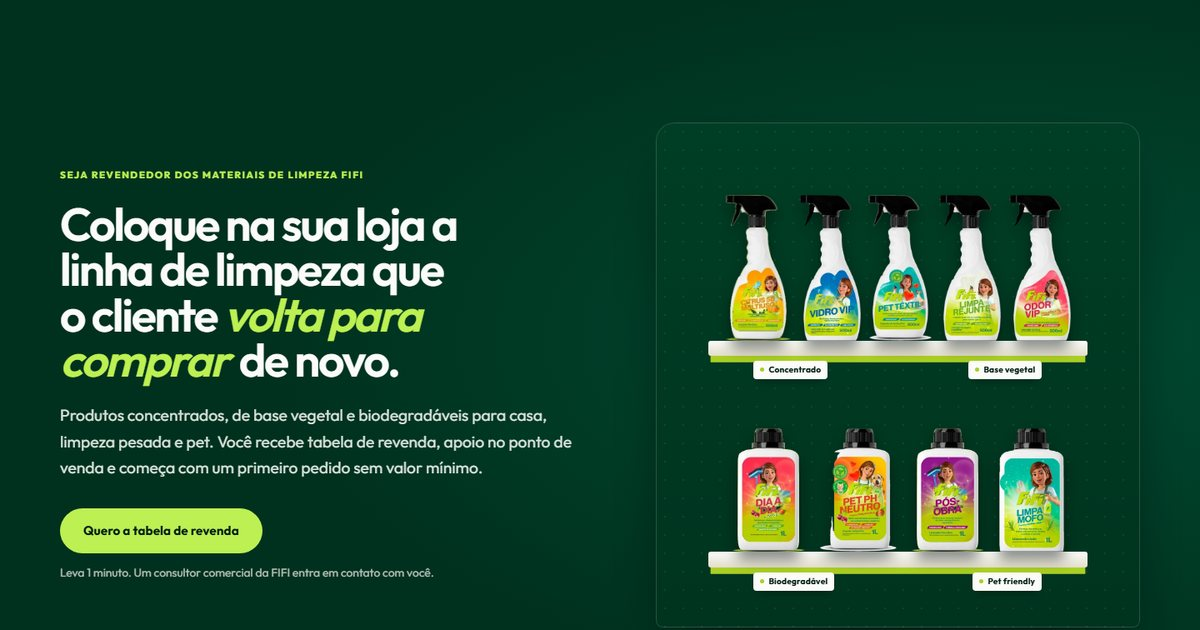
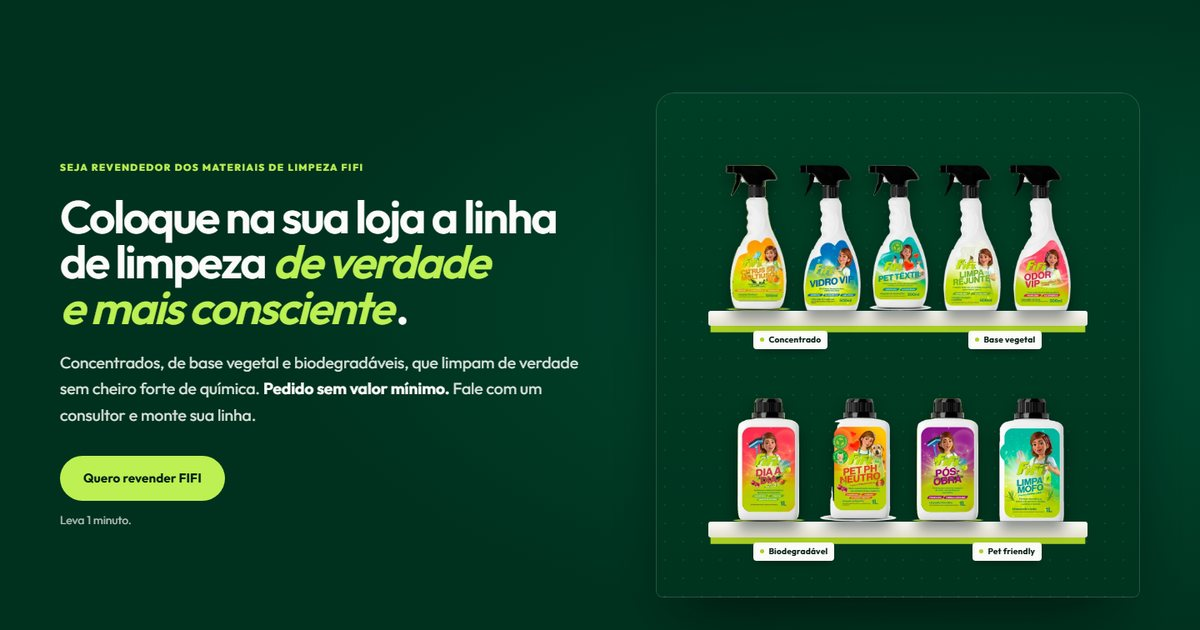
feat(distribuidor): ajustes de copy da Ivonete (cliente) na LP de revenda
Pptx "Ajustes LP FIFI" (24/09/2026):
- hero: "Coloque na sua loja a linha de limpeza de verdade e mais
  consciente", pedido sem valor mínimo, botão "Quero revender FIFI"
- vantagens, "por que a FIFI vende" e rodapé com o texto dela; saem
  margem, tabela progressiva e material de PDV
- "tabela" vira "catálogo e condições" em toda a página; botões
  "Peça o catálogo e as condições" na linha, nas lojas e nos passos
- seção nova "Os selos FIFI" com o conteúdo dos posts dela
- o que ela confirmou deixa de ser pendência; "seguro para casas com
  pets" vira "feito para" (risco regulatório de saneante)
- imagem de compartilhamento com o título novo

diff --git a/distribuidor/index.html b/distribuidor/index.html
@@ -4,7 +4,7 @@
   <meta charset="utf-8">
   <meta name="viewport" content="width=device-width, initial-scale=1">
   <title>Revenda de produtos de limpeza FIFI | Seja revendedor</title>
-  <meta name="description" content="Revenda produtos de limpeza FIFI na sua loja: linha concentrada para casa, limpeza pesada e pet. Peça a tabela de revenda em 1 minuto.">
+  <meta name="description" content="Revenda produtos de limpeza FIFI na sua loja, sem pedido mínimo: linha concentrada para casa, limpeza pesada e pet. Peça o catálogo e as condições.">
   <!-- Em revisão com o cliente: noindex. Na publicação final trocar por "index, follow, max-image-preview:large"
        e tirar /distribuidor do X-Robots-Tag global do vercel.json. -->
   <meta name="robots" content="noindex">
@@ -14,7 +14,7 @@
   <meta property="og:locale" content="pt_BR">
   <meta property="og:site_name" content="FIFI Limpeza">
   <meta property="og:title" content="Seja revendedor FIFI">
-  <meta property="og:description" content="Coloque na sua loja a linha de limpeza que o cliente volta para comprar de novo. Peça a tabela de revenda.">
+  <meta property="og:description" content="Coloque na sua loja a linha de limpeza de verdade e mais consciente. Sem pedido mínimo.">
   <meta property="og:image" content="https://mkt.fifilimpeza.com/distribuidor/img/og-revenda.jpg">
   <meta property="og:image:width" content="1200">
   <meta property="og:image:height" content="630">
@@ -28,7 +28,7 @@
   </script>
   <!-- Liga as animações só se o movimento estiver liberado. Roda antes da pintura: sem piscar. -->
   <script>if(matchMedia("(prefers-reduced-motion: no-preference)").matches&&"IntersectionObserver"in window)document.documentElement.classList.add("js-motion")</script>
-  <link rel="stylesheet" href="styles.css?v=4">
+  <link rel="stylesheet" href="styles.css?v=5">
 </head>
 <body class="revisao">
 <a class="skip-link" href="#conteudo">Pular para o conteúdo</a>
@@ -44,7 +44,7 @@
     <a href="#como-comecar">Como começar</a>
     <a href="#duvidas">Dúvidas</a>
   </nav>
-  <a class="button button-lime button-small" href="#formulario">Quero a tabela</a>
+  <a class="button button-lime button-small" href="#formulario">Quero revender FIFI</a>
 </header>
 
 <main id="conteudo">
@@ -53,15 +53,14 @@
 <section class="hero" id="topo">
   <div class="hero-copy">
     <h1><span class="eyebrow">Seja revendedor dos materiais de limpeza FIFI</span>
-      <span class="h1-main">Coloque na sua loja a linha de limpeza que o cliente <em>volta para comprar</em> de novo.</span></h1>
+      <span class="h1-main">Coloque na sua loja a linha de limpeza <em>de verdade e mais consciente</em>.</span></h1>
     <p class="hero-lead">
-      Produtos concentrados, de base vegetal e biodegradáveis para casa, limpeza pesada e pet.
-      Você recebe tabela de revenda, apoio no ponto de venda e começa com
-      <span class="pend" data-nota="Pedido mínimo do 1º pedido">um primeiro pedido sem valor mínimo</span>.
+      Concentrados, de base vegetal e biodegradáveis, que limpam de verdade sem cheiro forte de química.
+      <strong>Pedido sem valor mínimo.</strong> Fale com um consultor e monte sua linha.
     </p>
     <div class="hero-actions">
-      <a class="button button-lime" href="#formulario">Quero a tabela de revenda</a>
-      <p class="micro">Leva 1 minuto. Um consultor comercial da FIFI entra em contato com você.</p>
+      <a class="button button-lime" href="#formulario">Quero revender FIFI</a>
+      <p class="micro">Leva 1 minuto.</p>
     </div>
   </div>
 
@@ -95,31 +94,31 @@
 <section class="section benefits" id="vantagens">
   <div class="section-head">
     <p class="eyebrow eyebrow-dark">O que você ganha revendendo FIFI</p>
-    <h2>Uma linha que vende bem e deixa margem na sua loja.</h2>
+    <h2>Uma linha que limpa bem e faz o cliente voltar.</h2>
   </div>
   <ol class="benefit-grid">
     <li class="benefit reveal">
       <span class="benefit-num">01</span>
-      <h3><span class="pend" data-nota="Margem sugerida de revenda">Margem que vale o espaço na prateleira</span></h3>
-      <p>Preço de revenda pensado para você ganhar em cada unidade vendida.</p>
+      <h3>Resultado que o cliente percebe</h3>
+      <p>Fórmula concentrada que rende mais por frasco e mantém o poder de limpeza.</p>
     </li>
     <li class="benefit reveal">
       <span class="benefit-num">02</span>
-      <h3><span class="pend" data-nota="Pedido mínimo do 1º pedido">Comece sem arriscar estoque</span></h3>
-      <p>Primeiro pedido sem valor mínimo. Você testa o giro na sua loja antes de aumentar a compra.</p>
+      <h3>Sem pedido mínimo</h3>
+      <p>Você testa o giro antes de aumentar o estoque.</p>
     </li>
     <li class="benefit reveal">
       <span class="benefit-num">03</span>
-      <h3><span class="pend" data-nota="Tabela progressiva por volume existe?">Quanto mais você compra, melhor a condição</span></h3>
-      <p>Tabela progressiva por volume para quem já sabe o que vende.</p>
+      <h3>Uma linha completa</h3>
+      <p>Do dia a dia à limpeza pesada e ao pet, com um só fornecedor.</p>
     </li>
     <li class="benefit reveal">
       <span class="benefit-num">04</span>
-      <h3><span class="pend" data-nota="Display, PDV e treinamento existem hoje?">Apoio para vender no balcão</span></h3>
-      <p>Display, material de PDV e treinamento rápido para sua equipe indicar o produto certo para cada cliente.</p>
+      <h3>Ajuda para vender</h3>
+      <p>Apoio para explicar o produto para seu cliente.</p>
     </li>
   </ol>
-  <a class="text-link text-link-dark" href="#formulario">Ver condições para minha loja <span aria-hidden="true">↓</span></a>
+  <a class="text-link text-link-dark" href="#formulario">Peça as condições para sua loja <span aria-hidden="true">↓</span></a>
 </section>
 
 <!-- S2 · POR QUE A FIFI VENDE -->
@@ -127,23 +126,22 @@
   <div class="why-grid">
     <div>
       <p class="eyebrow eyebrow-dark">Por que a FIFI vende</p>
-      <h2>A FIFI limpa bem, rende mais e é fácil de indicar no balcão.</h2>
+      <h2>Resultado que o cliente vê. Origem vegetal que ele valoriza.</h2>
     </div>
     <div class="why-body">
-      <p class="lead">Seu cliente quer um produto de limpeza que funcione e que caiba no bolso. A fórmula concentrada da FIFI rende mais por frasco, então cada compra dura mais na casa dele. E a linha pode ser usada em casas com crianças e pets, um argumento que o cliente entende na hora.</p>
-      <p>Para você, é um produto com <span class="pend" data-nota="Preço de revenda competitivo para loja pequena">preço de revenda pensado para a sua loja</span> e uma linha completa em um só fornecedor.</p>
+      <p class="lead">Seu cliente quer um produto que funcione, seja seguro para a família e os pets e não agrida o ambiente. A FIFI une performance e ingredientes de origem vegetal.</p>
       <ul class="attr-list">
         <li class="reveal">
           <svg viewBox="0 0 24 24" aria-hidden="true"><path d="M9 3h6M10 3v4.5L6.5 13A6 6 0 0 0 12 21a6 6 0 0 0 5.5-8L14 7.5V3"/><path d="M7.5 14.5h9"/></svg>
-          <div><strong>Concentrado</strong><span>Um frasco rende mais, e o cliente sente a economia no bolso.</span></div>
+          <div><strong>Concentrado</strong><span>Rende mais por frasco, sem abrir mão da limpeza.</span></div>
         </li>
         <li class="reveal">
           <svg viewBox="0 0 24 24" aria-hidden="true"><path d="M5 19c0-8 5-13 14-14-1 9-6 14-14 14Z"/><path d="M5 19l7-7"/></svg>
-          <div><strong><span class="pend" data-nota="Quais produtos da linha são base vegetal">Base vegetal e biodegradável</span></strong><span>O motivo que faz o cliente trocar de marca.</span></div>
+          <div><strong>Base vegetal e biodegradável</strong><span>O motivo que faz o cliente trocar de marca.</span></div>
         </li>
         <li class="reveal">
           <svg viewBox="0 0 24 24" aria-hidden="true"><circle cx="7" cy="9" r="2"/><circle cx="12" cy="6" r="2"/><circle cx="17" cy="9" r="2"/><path d="M12 12c-3 0-5.5 3-5.5 5.2 0 1.7 1.4 2.3 2.8 1.9l2.7-.8 2.7.8c1.4.4 2.8-.2 2.8-1.9C17.5 15 15 12 12 12Z"/></svg>
-          <div><strong>Pet friendly</strong><span>Seguro para casas com pets, o que abre venda em pet shop e agropecuária.</span></div>
+          <div><strong>Pet friendly</strong><span>Feito para casas com pets, o que abre venda em pet shop e agropecuária.</span></div>
         </li>
       </ul>
     </div>
@@ -167,7 +165,7 @@
   <div class="panel" role="tabpanel" id="painel-dia" aria-labelledby="tab-dia">
     <div class="panel-text">
       <h3>Limpeza do dia a dia</h3>
-      <p>Para a casa inteira, do piso ao vidro, com perfume agradável e sem cheiro forte de química.</p>
+      <p>Para a casa inteira, do piso ao vidro, com perfume agradável.</p>
       <p class="chips">Multiuso · Desengordurante · Limpa-vidros · Limpeza de banheiro · Aromatizantes</p>
     </div>
     <ul class="products">
@@ -229,8 +227,44 @@
     </ul>
   </div>
 
-  <a class="button button-outline" href="https://www.fifilimpeza.com" target="_blank" rel="noopener">Ver o catálogo completo</a>
+  <a class="button button-dark" href="#formulario">Peça o catálogo e as condições</a>
 </section>
+
+<!-- SELOS · ajuste da Ivonete (24/09/2026): conteúdo dos posts "Não é só um selo" da FIFI -->
+<section class="section seals" id="selos">
+  <div class="seals-head">
+    <div>
+      <p class="eyebrow eyebrow-dark">Os selos FIFI</p>
+      <h2>Não é só um selo.</h2>
+      <p class="seals-lead">É uma escolha sobre o tipo de produto que o seu cliente coloca dentro de casa.</p>
+    </div>
+    <ul class="seal-badges">
+      <li><img src="img/selo-nanotecnologia.webp" alt="Selo Nanotecnologia, a evolução da limpeza" width="226" height="226" loading="lazy" decoding="async"><span>Nanotecnologia</span></li>
+      <li><img src="img/selo-fifi-eco-life.webp" alt="Selo FIFI Eco Life" width="226" height="226" loading="lazy" decoding="async"><span>FIFI Eco Life</span></li>
+      <li><img src="img/selo-ecolife.webp" alt="Selo Ecolife, produtos ecológicos" width="232" height="232" loading="lazy" decoding="async"><span>Ecolife</span></li>
+    </ul>
+  </div>
+  <ul class="seal-grid">
+    <li class="reveal">
+      <h3>Origem vegetal</h3>
+      <p>Formulações desenvolvidas com matérias-primas de origem vegetal, pensadas para unir eficiência e responsabilidade. Limpar bem não precisa significar usar o que há de mais agressivo.</p>
+    </li>
+    <li class="reveal">
+      <h3>Biodegradável</h3>
+      <p>Os componentes biodegradáveis podem ser decompostos pela ação de microrganismos ao longo do tempo. Menos permanência no ambiente, menos impacto, mais futuro.</p>
+    </li>
+    <li class="reveal">
+      <h3>Menos impacto</h3>
+      <p>O que vai embora pelo ralo continua existindo em algum lugar. Por isso, pensar na fórmula também é pensar no que acontece depois da limpeza.</p>
+    </li>
+    <li class="reveal">
+      <h3>Responsabilidade</h3>
+      <p>ESG fala de responsabilidade ambiental, social e de governança. Na FIFI, isso aparece nas escolhas: da formulação dos produtos à maneira como a marca pensa o seu impacto.</p>
+    </li>
+  </ul>
+  <p class="seals-note">Cada selo representa uma escolha.</p>
+</section>
+
 
 <!-- S4 · PARA QUAL LOJA -->
 <section class="section stores">
@@ -260,6 +294,7 @@
       <p>Linha pet com argumento técnico que o cliente entende na hora.</p>
     </li>
   </ul>
+  <a class="button button-lime stores-cta" href="#formulario">Peça o catálogo e as condições</a>
 </section>
 
 <!-- S5 · PROVA -->
@@ -281,7 +316,7 @@
     <div>
       <h2>Uma marca de limpeza de Brusque/SC, feita para quem cobra resultado.</h2>
       <p>A FIFI Limpeza <span class="pend" data-nota="A FIFI fabrica? Se sim, trocar por &quot;fabrica&quot;">desenvolve</span> produtos para uso doméstico, profissional e institucional, com fórmulas de alta performance, foco em rendimento e ingredientes de origem vegetal em boa parte da linha.</p>
-      <p>Nasceu atendendo empresas que precisam de limpeza impecável todos os dias e hoje leva a mesma linha para a prateleira de lojas parceiras.</p>
+      <p>Nasceu atendendo empresas que precisam de limpeza impecável todos os dias e agora leva a mesma linha para a prateleira de lojas parceiras.</p>
     </div>
   </div>
 </section>
@@ -290,14 +325,14 @@
 <section class="section steps" id="como-comecar">
   <div class="section-head">
     <p class="eyebrow eyebrow-dark">Como começar</p>
-    <h2>Da tabela à prateleira em 3 passos.</h2>
+    <h2>Do catálogo à prateleira em 3 passos.</h2>
   </div>
   <ol class="step-list">
-    <li class="reveal"><span class="step-num">1</span><h3>Peça a tabela de revenda</h3><p>Preencha o formulário em 1 minuto.</p></li>
-    <li class="reveal"><span class="step-num">2</span><h3>Monte seu mix com um consultor</h3><p>Ele indica as linhas que mais vendem no seu tipo de loja e na sua região.</p></li>
-    <li class="reveal"><span class="step-num">3</span><h3>Receba e comece a vender</h3><p><span class="pend" data-nota="Material de PDV e orientação existem?">Com material de PDV e orientação para sua equipe.</span></p></li>
+    <li class="reveal"><span class="step-num">1</span><h3>Peça o catálogo</h3><p>Preencha o formulário em 1 minuto.</p></li>
+    <li class="reveal"><span class="step-num">2</span><h3>Monte seu mix com um consultor</h3><p>Ele ajuda a escolher as linhas certas para o seu tipo de loja.</p></li>
+    <li class="reveal"><span class="step-num">3</span><h3>Receba e comece a vender</h3><p>Com apoio para explicar o produto para seu cliente.</p></li>
   </ol>
-  <a class="button button-dark" href="#formulario">Quero a tabela de revenda</a>
+  <a class="button button-dark" href="#formulario">Peça o catálogo e as condições</a>
 </section>
 
 <!-- S8 · FAQ -->
@@ -305,15 +340,15 @@
   <div class="faq-grid">
     <div class="faq-head">
       <p class="eyebrow eyebrow-dark">Perguntas frequentes</p>
-      <h2>Antes de pedir a tabela.</h2>
+      <h2>Antes de pedir o catálogo.</h2>
     </div>
     <div class="faq-list">
-      <details><summary>Tem pedido mínimo?</summary><p><span class="pend" data-nota="Pedido mínimo">O primeiro pedido não tem valor mínimo.</span></p></details>
+      <details><summary>Tem pedido mínimo?</summary><p>Não. O pedido não tem valor mínimo.</p></details>
       <details><summary>Vocês entregam na minha cidade?</summary><p>Atendemos <span class="pend" data-nota="Estados e regiões atendidos">[estados e regiões]</span>. O prazo de entrega é de <span class="pend" data-nota="Prazo de entrega">[prazo]</span> dias úteis.</p></details>
       <details><summary>Quais as formas de pagamento?</summary><p><span class="pend" data-nota="Boleto a prazo? Cartão? PIX com desconto?">[formas de pagamento]</span></p></details>
-      <details><summary>Qual a margem de revenda?</summary><p>O preço sugerido ao consumidor garante margem de <span class="pend" data-nota="Margem sugerida">[margem]</span>. O consultor apresenta na tabela.</p></details>
+      <details><summary>Qual a margem de revenda?</summary><p><span class="pend" data-nota="Manter esta pergunta? A Ivonete tirou margem do resto da página">O consultor apresenta a margem sugerida junto com o catálogo e as condições.</span></p></details>
       <details><summary>Tem exclusividade na minha região?</summary><p><span class="pend" data-nota="Sim, não ou depende do volume">[regra de exclusividade]</span></p></details>
-      <details><summary>Preciso ter CNPJ?</summary><p>Sim, a tabela de revenda é exclusiva para lojas com CNPJ ativo.</p></details>
+      <details><summary>Preciso ter CNPJ?</summary><p>Sim, as condições de revenda são exclusivas para lojas com CNPJ ativo.</p></details>
       <details><summary>Posso vender pela internet?</summary><p><span class="pend" data-nota="Regra para marketplace, sem competir com a Shopee da FIFI">[regra para venda online]</span></p></details>
     </div>
   </div>
@@ -323,12 +358,12 @@
 <section class="section final" id="formulario">
   <div class="final-grid">
     <div class="final-copy">
-      <p class="eyebrow">Tabela de revenda</p>
-      <h2>Sua loja com a linha que o cliente procura e a margem que você precisa.</h2>
+      <p class="eyebrow">Catálogo e condições</p>
+      <h2>Sua loja com produtos que unem eficiência e ingredientes que não agridem o ambiente.</h2>
       <ul class="final-list">
-        <li><span class="pend" data-nota="Pedido mínimo">Primeiro pedido sem valor mínimo</span></li>
-        <li><span class="pend" data-nota="Tabela progressiva">Condições progressivas por volume</span></li>
-        <li><span class="pend" data-nota="Consultor dedicado existe?">Consultor comercial dedicado</span></li>
+        <li>Sem pedido mínimo</li>
+        <li>Catálogo completo da linha</li>
+        <li>Consultor para tirar as dúvidas</li>
       </ul>
     </div>
 
@@ -377,7 +412,7 @@
           <label><input type="radio" name="ja_vende" value="Não"><span>Não</span></label>
         </div>
       </fieldset>
-      <button class="button button-lime button-block" type="submit">Receber a tabela de revenda</button>
+      <button class="button button-lime button-block" type="submit">Receber o catálogo e as condições</button>
       <p class="form-note">Seus dados vão só para o time comercial da FIFI. Sem spam.</p>
       <p class="form-error" role="alert" hidden>Confira os campos marcados.</p>
     </form>
@@ -392,7 +427,7 @@
   <a href="https://www.fifilimpeza.com" target="_blank" rel="noopener">fifilimpeza.com</a>
 </footer>
 
-<a class="sticky-cta button button-lime" href="#formulario">Quero a tabela de revenda</a>
+<a class="sticky-cta button button-lime" href="#formulario">Quero revender FIFI</a>
 
 <!-- Modo revisão: some quando REVISAO = false no script.js -->
 <div class="review-pill" id="review-pill" hidden>
@@ -401,6 +436,6 @@
   <button type="button" id="review-toggle">Ocultar</button>
 </div>
 
-<script src="script.js?v=4" defer></script>
+<script src="script.js?v=5" defer></script>
 </body>
 </html>

diff --git a/distribuidor/styles.css b/distribuidor/styles.css
@@ -327,7 +327,7 @@ h1 em, h2 em { color: var(--lime); font-style: italic; padding-right: .08em; }
 }
 .accessories svg { width: 64px; height: 64px; fill: none; stroke: var(--green-800); stroke-width: 2.4; stroke-linecap: round; stroke-linejoin: round; }
 
-.line .button-outline { margin-top: var(--space-3xl); }
+.line > .button { margin-top: var(--space-3xl); }
 
 /* ---------------- S4 · lojas ---------------- */
 .stores { background: var(--green-900); color: var(--on-dark); }
@@ -475,6 +475,32 @@ h1 em, h2 em { color: var(--lime); font-style: italic; padding-right: .08em; }
   transform: translateY(140%); transition: transform .45s var(--ease);
 }
 .sticky-cta.show { transform: none; }
+
+/* ---------------- selos (ajuste da Ivonete, 24/09/2026) ---------------- */
+.seals { background: var(--cream); }
+.seals-head { display: grid; grid-template-columns: minmax(0, 1fr) auto; gap: clamp(24px, 4vw, 64px); align-items: end; }
+.seals h2 { margin-top: var(--space-lg); }
+.seals-lead { margin-top: var(--space-lg); max-width: 40ch; font-size: clamp(1.05rem, 1rem + .3vw, 1.25rem); color: var(--muted); }
+.seal-badges { display: flex; gap: clamp(12px, 2vw, 28px); }
+.seal-badges li { display: grid; justify-items: center; gap: var(--space-sm); font-size: .8rem; font-weight: 650; color: var(--green-800); text-align: center; }
+.seal-badges img { width: clamp(84px, 8vw, 116px); height: auto; filter: drop-shadow(0 10px 14px oklch(20% 0.05 166 / .18)); }
+.seal-grid { margin-top: var(--space-3xl); display: grid; grid-template-columns: repeat(4, minmax(0, 1fr)); gap: var(--space-lg); }
+.seal-grid li { padding: var(--space-2xl) var(--space-xl); background: var(--white); border: 1px solid var(--line); border-radius: var(--radius-md); }
+.seal-grid h3 { display: flex; align-items: center; gap: 10px; color: var(--green-900); }
+.seal-grid h3::before { content: ""; width: 10px; height: 10px; border-radius: 50%; background: var(--lime-deep); flex: 0 0 auto; }
+.seal-grid p { margin-top: var(--space-md); color: var(--muted); font-size: .96rem; }
+.seals-note { margin-top: var(--space-2xl); font-weight: 650; color: var(--green-800); }
+.stores-cta { margin-top: var(--space-3xl); }
+.hero-lead strong { color: var(--white); font-weight: 650; }
+@media (max-width: 1100px) {
+  .seals-head { grid-template-columns: 1fr; align-items: start; }
+  .seal-grid { grid-template-columns: repeat(2, minmax(0, 1fr)); }
+}
+@media (max-width: 760px) {
+  .seal-grid { grid-template-columns: 1fr; }
+  .seal-grid li { padding: var(--space-xl); }
+  .seal-badges { justify-content: space-between; width: 100%; }
+}
 
 /* ---------------- modo revisão ---------------- */
 /* Tudo que está [CONFIRMAR] na copy fica marcado. Passar o mouse mostra o que falta confirmar.

diff --git a/distribuidor/obrigado.html b/distribuidor/obrigado.html
@@ -7,7 +7,7 @@
   <meta name="robots" content="noindex">
   <meta name="theme-color" content="#0b3a2c">
   <link rel="icon" href="img/favicon.png">
-  <link rel="stylesheet" href="styles.css?v=4">
+  <link rel="stylesheet" href="styles.css?v=5">
   <style>
     .thanks {
       min-height: calc(100svh - var(--header-h));
@@ -38,8 +38,8 @@
 <main class="thanks">
   <div>
     <div class="check" aria-hidden="true"><svg viewBox="0 0 24 24"><path d="M5 12.5l4.5 4.5L19 7.5"/></svg></div>
-    <h1>Recebemos! Sua tabela está a caminho.</h1>
-    <p>Um consultor comercial da FIFI vai chamar você no WhatsApp.</p>
+    <h1>Recebemos seu pedido.</h1>
+    <p>Um consultor comercial da FIFI vai chamar você no WhatsApp com o catálogo e as condições.</p>
     <a class="button button-lime" href="https://www.fifilimpeza.com" target="_blank" rel="noopener">Enquanto isso, conheça a linha completa</a>
   </div>
   <div class="hero-visual" aria-hidden="true">
